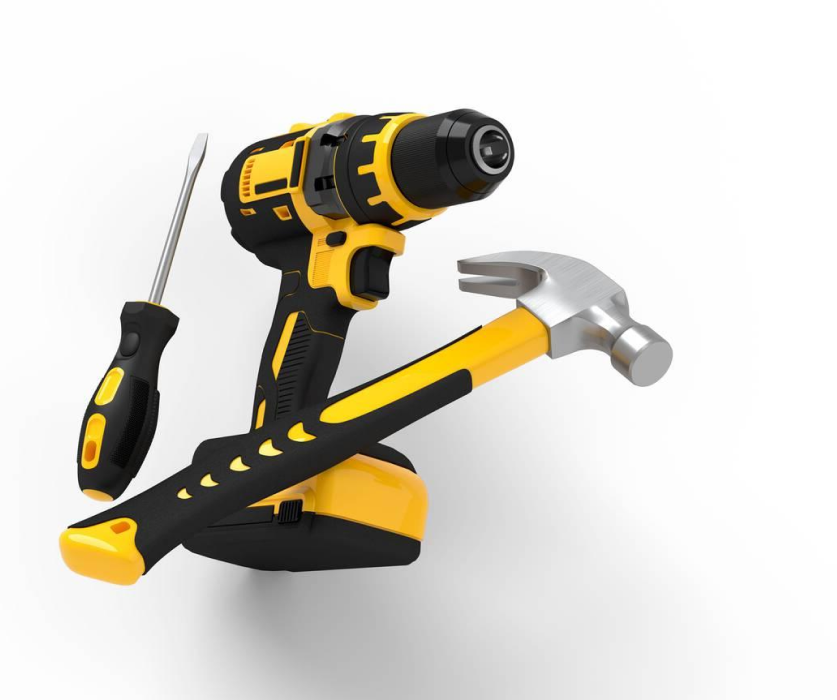
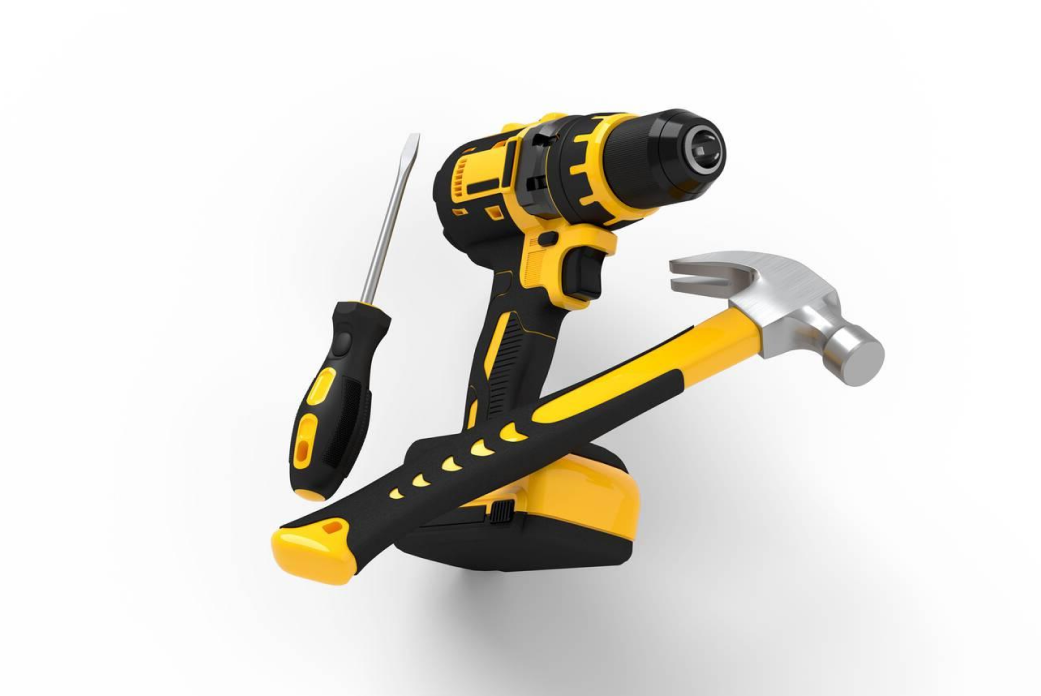
responsive hero

diff --git a/src/components/Home/hero/Hero.js b/src/components/Home/hero/Hero.js
@@ -1,6 +1,8 @@
 import React from 'react'
+//react router dom
+// import { Link } from 'react-router-dom'
 //assets
-import banner from '../../../assets/images/home/hero/Banner.png'
+import heroImage from '../../../assets/images/home/hero/heroImage.png'
 import loader from '../../../assets/images/home/hero/Loader.svg'
 import Paint_Roller_Icon from '../../../assets/images/home/hero/Paint_Roller_Icon.svg'
 import Tools_Icon from '../../../assets/images/home/hero/Tools_Icon.svg'
@@ -11,64 +13,65 @@ import Helmet_Icon from '../../../assets/images/home/hero/Helmet_Icon.svg'
 
 function Hero() {
     return (
-        <div className='w-full fcc relative h-[calc(100vh-100px)]'>
-            <div className='maxLayout h-full w-full relative'>
-                <div className='flex items-start justify-end h-full'>
-                    <div className='flex justify-start items-start flex-col text-3xl w-[35%] absolute right-12 top-36'>
-                        <div className='flex mb-3'>
-                            <span className='fcc ml-2'>
-                                ثبت درخواست خدمات
-                            </span>
-                            <span className='text-color-font-3 fcc'>
-                                ساختمانی
-                            </span>
+        <div className="text-center flex items-center flex-col pt-10">
+            <div className="relative maxLayout grid grid-cols-12 px-[20px] md:px-[32px] w-full">
+                <div className='col-span-12 lg:col-span-6 lg:pt-32 lg:pr-28 flex flex-col items-center justify-start text-3xl'>
+                    <div className='flex mb-5 text-xl'>
+                        <span className='fcc ml-2'>
+                            ثبت درخواست خدمات
+                        </span>
+                        <span className='text-color-font-3 fcc'>
+                            ساختمانی
+                        </span>
+                    </div>
+                    <span className='text-xs font-light mb-10'>
+                        ثبت درخواست خدمات نقاشی ، بنایی ، گچکاری و ...
+                    </span>
+                    <div className='fcc h-10 w-full relative max-w-lg'>
+                        <div className='w-9 h-9 bg-color-font-3 absolute left-0 ml-1 rounded-full fcc p-[10px]'>
+                            <svg className='z-10' width="20" height="20" viewBox="0 0 20 20" fill="none" xmlns="http://www.w3.org/2000/svg">
+                                <path d="M7.74377 0C3.47153 0 0 3.47153 0 7.74377C0 12.016 3.47153 15.4875 7.74377 15.4875C9.43416 15.4875 10.9964 14.9431 12.2705 14.0214L18.2633 20L19.5445 18.7189L13.6228 12.7829C14.7865 11.427 15.4875 9.66726 15.4875 7.74377C15.4875 3.47153 12.016 0 7.74377 0ZM7.74377 0.911032C11.5231 0.911032 14.5765 3.96441 14.5765 7.74377C14.5765 11.5231 11.5231 14.5765 7.74377 14.5765C3.96441 14.5765 0.911032 11.5231 0.911032 7.74377C0.911032 3.96441 3.96441 0.911032 7.74377 0.911032Z" fill="#ffffff" />
+                            </svg>
                         </div>
-
-                        <span className='text-xs font-light mb-[4%]'>ثبت درخواست خدمات نقاشی ، بنایی ، گچکاری و ...</span>
-
-                        <div className='fcc h-10 w-full'>
-                            <div className='w-9 h-9 bg-color-font-3 absolute left-0 ml-1 rounded-full fcc p-[10px]'>
-                                <svg className='z-10' width="20" height="20" viewBox="0 0 20 20" fill="none" xmlns="http://www.w3.org/2000/svg">
-                                    <path d="M7.74377 0C3.47153 0 0 3.47153 0 7.74377C0 12.016 3.47153 15.4875 7.74377 15.4875C9.43416 15.4875 10.9964 14.9431 12.2705 14.0214L18.2633 20L19.5445 18.7189L13.6228 12.7829C14.7865 11.427 15.4875 9.66726 15.4875 7.74377C15.4875 3.47153 12.016 0 7.74377 0ZM7.74377 0.911032C11.5231 0.911032 14.5765 3.96441 14.5765 7.74377C14.5765 11.5231 11.5231 14.5765 7.74377 14.5765C3.96441 14.5765 0.911032 11.5231 0.911032 7.74377C0.911032 3.96441 3.96441 0.911032 7.74377 0.911032Z" fill="#ffffff" />
-                                </svg>
-                            </div>
-                            <input className='peer pr-4 font-thin text-base w-full h-full focus:outline-0 boxShadowCustom rounded-full' type="text" />
-                            <div className='peer-focus:animate-ping w-9 h-9 z-0 absolute left-1 rounded-full fcc p-[10px] bg-color-font-3'></div>
-                        </div>
-                    </div>
-                    <img className='object-contain h-full left-0 top-0' src={banner} alt="بنر" />
-                </div>
-
-                <div className='absolute w-[90%] bg-[#ffffff3f] backdrop-blur h-[120px] bottom-16 right-0 left-0 m-auto rounded-xl boxShadowCustom flex items-center justify-around px-[2%]'>
-                    <div className='fcc flex-col p-4 h-full text-center'>
-                        <img className='h-[80%]' src={loader} alt="تخریب و خاکبرداری" />
-                        <span className='fcc text-sm font-light '>تخریب و خاکبرداری</span>
-                    </div>
-                    <div className='fcc flex-col p-4 h-full text-center'>
-                        <img className='h-[80%]' src={Paint_Roller_Icon} alt="خدمات فوری" />
-                        <span className='fcc text-sm font-light '>خدمات فوری</span>
-                    </div>
-                    <div className='fcc flex-col p-4 h-full text-center'>
-                        <img className='h-[80%]' src={Tools_Icon} alt="تعمیر و نگهداری" />
-                        <span className='fcc text-sm font-light '>تعمیر و نگهداری</span>
-                    </div>
-                    <div className='fcc flex-col p-4 h-full text-center'>
-                        <img className='h-[80%]' src={Drill_Icon} alt="تاسیسات" />
-                        <span className='fcc text-sm font-light '>تاسیسات</span>
-                    </div>
-                    <div className='fcc flex-col p-4 h-full text-center'>
-                        <img className='h-[80%]' src={Jackhammer} alt="امور ساختمانی" />
-                        <span className='fcc text-sm font-light '>امور ساختمانی</span>
-                    </div>
-                    <div className='fcc flex-col p-4 h-full text-center'>
-                        <img className='h-[80%]' src={Screw_Icon} alt="اجرای سازه" />
-                        <span className='fcc text-sm font-light '>اجرای سازه</span>
-                    </div>
-                    <div className='fcc flex-col p-4 h-full text-center'>
-                        <img className='h-[80%]' src={Helmet_Icon} alt="بازسازی" />
-                        <span className='fcc text-sm font-light '>بازسازی</span>
+                        <input className='peer pr-4 font-thin text-base w-full h-full focus:outline-0 boxShadowCustom rounded-full' type="text" />
+                        <div className='peer-focus:animate-ping w-9 h-9 z-0 absolute left-1 rounded-full fcc p-[10px] bg-color-font-3'></div>
                     </div>
                 </div>
+                <div className='col-span-12 lg:col-span-6 fcc '>
+                    <img className='object-contain h-full left-0 top-0 drop-shadow-2xl' src={heroImage} alt="بنر" />
+                </div>
+                <div className='absolute bottom-10 w-[95%] max-w-[1000px] left-0 right-0 m-auto col-span-12 backdrop-filter backdrop-blur-xl overflow-x-scroll hideScroll h-[120px] rounded-xl shadow-xl'>
+                    <div className='w-[1000px] h-full flex'>
+                        <div className='fcc flex-col px-2 py-4 h-full w-[150px] text-center'>
+                            <img className='h-[80%]' src={loader} alt="تخریب و خاکبرداری" />
+                            <span className='fcc text-xs font-light h-[20%]'>تخریب و خاکبرداری</span>
+                        </div>
+                        <div className='fcc flex-col px-2 py-4 h-full w-[150px] text-center'>
+                            <img className='h-[80%]' src={Paint_Roller_Icon} alt="خدمات فوری" />
+                            <span className='fcc text-xs font-light '>خدمات فوری</span>
+                        </div>
+                        <div className='fcc flex-col p-4 h-full w-[150px] text-center'>
+                            <img className='h-[80%]' src={Tools_Icon} alt="تعمیر و نگهداری" />
+                            <span className='fcc text-sm font-light '>تعمیر و نگهداری</span>
+                        </div>
+                        <div className='fcc flex-col p-4 h-full w-[150px] text-center'>
+                            <img className='h-[80%]' src={Drill_Icon} alt="تاسیسات" />
+                            <span className='fcc text-sm font-light '>تاسیسات</span>
+                        </div>
+                        <div className='fcc flex-col p-4 h-full w-[150px] text-center'>
+                            <img className='h-[80%]' src={Jackhammer} alt="امور ساختمانی" />
+                            <span className='fcc text-sm font-light '>امور ساختمانی</span>
+                        </div>
+                        <div className='fcc flex-col p-4 h-full w-[150px] text-center'>
+                            <img className='h-[80%]' src={Screw_Icon} alt="اجرای سازه" />
+                            <span className='fcc text-sm font-light '>اجرای سازه</span>
+                        </div>
+                        <div className='fcc flex-col p-4 h-full w-[150px] text-center'>
+                            <img className='h-[80%]' src={Helmet_Icon} alt="بازسازی" />
+                            <span className='fcc text-sm font-light '>بازسازی</span>
+                        </div>
+                    </div>
+                </div> 
             </div>
         </div>
     )

diff --git a/src/components/Home/hero/SplitWithImage.js b/src/components/Home/hero/SplitWithImage.js
@@ -1,0 +1,53 @@
+import React from 'react'
+
+export default function Example() {
+  return (
+    <div className="relative bg-white">
+      <div className="mx-auto max-w-7xl lg:grid lg:grid-cols-12 lg:gap-x-8 lg:px-8">
+        <div className="relative lg:col-span-5 lg:-mr-8 xl:absolute xl:inset-0 xl:left-1/2 xl:mr-0">
+          <img
+            className="aspect-[3/2] w-full bg-gray-50 object-cover lg:absolute lg:inset-0 lg:aspect-auto lg:h-full"
+            src="https://images.unsplash.com/photo-1498758536662-35b82cd15e29?ixlib=rb-4.0.3&ixid=MnwxMjA3fDB8MHxwaG90by1wYWdlfHx8fGVufDB8fHx8&auto=format&fit=crop&w=2102&q=80"
+            alt=""
+          />
+        </div>
+        <div className="px-6 pb-24 pt-10 sm:pb-32 lg:col-span-7 lg:px-0 lg:pb-56 lg:pt-48 xl:col-span-6">
+          <div className="mx-auto max-w-2xl lg:mx-0">
+            <img
+              className="h-11"
+              src="https://tailwindui.com/img/logos/mark.svg?color=indigo&shade=600"
+              alt="Your Company"
+            />
+            <div className="hidden sm:mt-32 sm:flex lg:mt-16">
+              <div className="relative rounded-full px-3 py-1 text-sm leading-6 text-gray-500 ring-1 ring-gray-900/10 hover:ring-gray-900/20">
+                Anim aute id magna aliqua ad ad non deserunt sunt.{' '}
+                <a href="#" className="whitespace-nowrap font-semibold text-indigo-600">
+                  <span className="absolute inset-0" aria-hidden="true" />
+                  Read more <span aria-hidden="true">&rarr;</span>
+                </a>
+              </div>
+            </div>
+            <h1 className="mt-24 text-4xl font-bold tracking-tight text-gray-900 sm:mt-10 sm:text-6xl">
+              Data to enrich your online business
+            </h1>
+            <p className="mt-6 text-lg leading-8 text-gray-600">
+              Anim aute id magna aliqua ad ad non deserunt sunt. Qui irure qui lorem cupidatat commodo. Elit sunt amet
+              fugiat veniam occaecat fugiat aliqua.
+            </p>
+            <div className="mt-10 flex items-center gap-x-6">
+              <a
+                href="#"
+                className="rounded-md bg-indigo-600 px-3.5 py-2.5 text-sm font-semibold text-white shadow-sm hover:bg-indigo-500 focus-visible:outline focus-visible:outline-2 focus-visible:outline-offset-2 focus-visible:outline-indigo-600"
+              >
+                Get started
+              </a>
+              <a href="#" className="text-sm font-semibold leading-6 text-gray-900">
+                Learn more <span aria-hidden="true">→</span>
+              </a>
+            </div>
+          </div>
+        </div>
+      </div>
+    </div>
+  )
+}

diff --git a/src/pages/Home.js b/src/pages/Home.js
@@ -2,6 +2,7 @@ import React from 'react'
 // components
 import Weblog from '../components/Home/weblog/Weblog.js'
 import Hero from '../components/Home/hero/Hero.js'
+import S from '../components/Home/hero/SplitWithImage.js'
 import CarouselBanner from '../components/Home/carouselBanner/CarouselBanner.js'
 import Questions from '../components/Home/questions/Questions.js'
 import AppInformation from '../components/Home/appInformation/AppInformation.js'
@@ -15,9 +16,10 @@ export const Home = () => {
 
   return (
     <div>
-      <div className='h-[100px] w-full'></div>
+      <div className='h-[100px] w-full bg-black'></div>
       {/* Hero no responsive */}
-      <Hero /> 
+      <Hero />
+      {/* <S /> */}
       <Brands />
 
       {/* CarouselBanner no responsive */}

diff --git a/src/layout/Layout.js b/src/layout/Layout.js
@@ -9,7 +9,7 @@ const Layout = () => {
     return (
         <>
             {/* Header */}
-            <Header />
+            {/* <Header /> */}
             {/* Routers */}
             <Routers />
             {/* footer */}

diff --git a/src/index.css b/src/index.css
@@ -9,9 +9,6 @@
 /* Hide scrollbar */
 .hideScroll::-webkit-scrollbar {
   display: none;
-}
-
-.hideScroll {
   -ms-overflow-style: none;
   scrollbar-width: none;
 }
